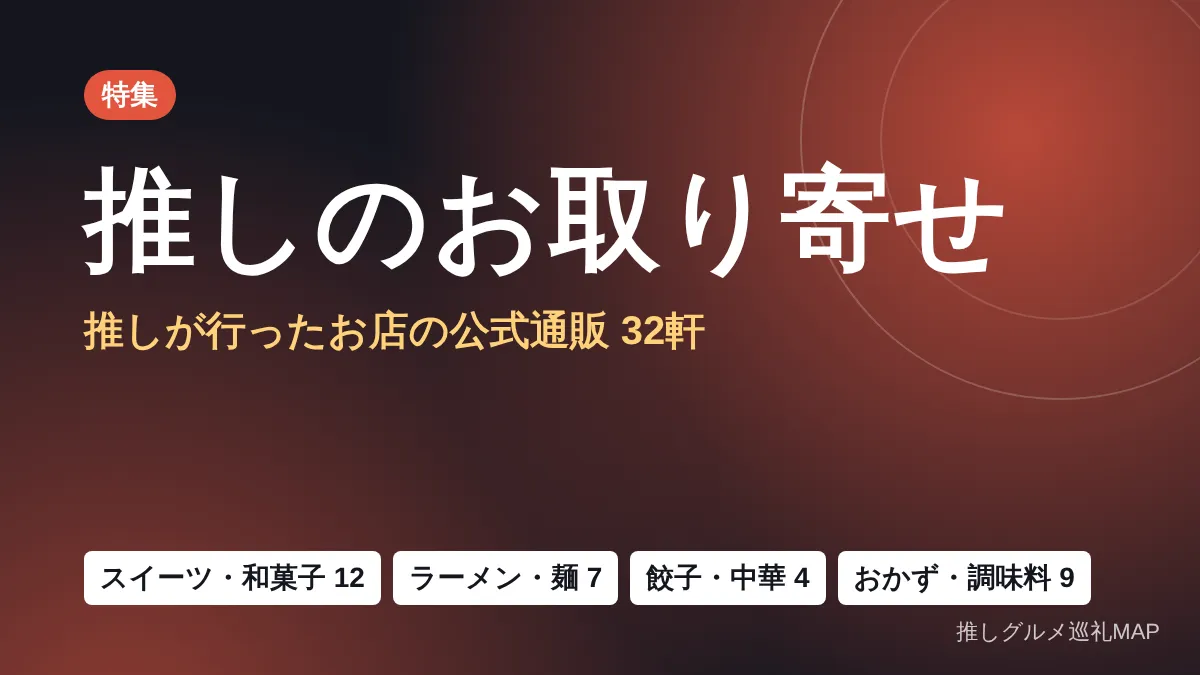
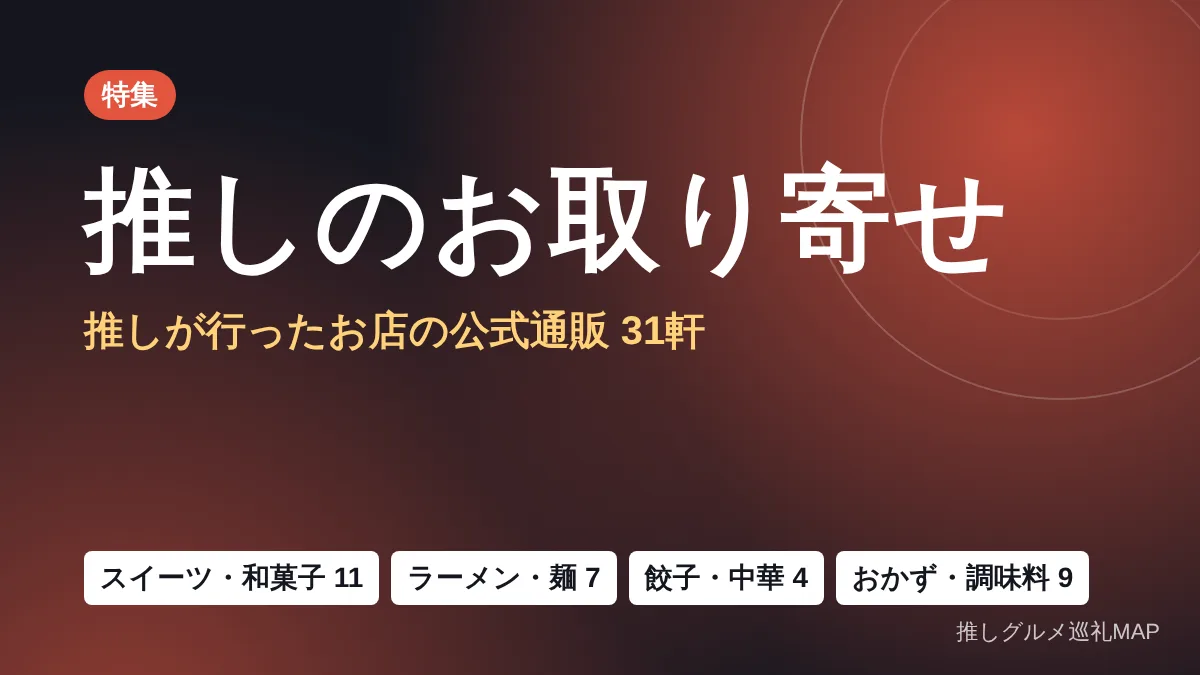
和食まとめ・お取り寄せまとめの軒数を、外した店に合わせて直す
Claude-Session: https://claude.ai/code/session_01MseDnBjkSwwRYQ7pFiJZVF

Changed region(s): [[0.2775, 0.8089, 0.8942, 0.9022], [0.5242, 0.4667, 0.555, 0.5289]]

diff --git a/_posts/2026-05-27-idol-washoku-matome.md b/_posts/2026-05-27-idol-washoku-matome.md
@@ -1,19 +1,19 @@
 ---
 layout: post
-title: "アイドル・芸能人が行った和食まとめ【86軒】よにのの朝定食・両国のちゃんこに2組・うなぎとそばまで11組"
+title: "アイドル・芸能人が行った和食まとめ【85軒】よにのの朝定食・両国のちゃんこに2組・うなぎとそばまで11組"
 date: 2026-05-27
 last_modified_at: 2026-10-10
-description: "孤独のグルメ・よにのちゃんねる・SixTONES・Snow Man・=LOVE・Hey! Say! JUMPなど11組の動画や番組に登場した和食・定食・そば・うなぎのお店86軒を、グループごとに動画の回・タイトル・注文したものと一緒にまとめました。何組も訪れたお店や、どのグループのお店かは図でひと目で。"
+description: "孤独のグルメ・よにのちゃんねる・SixTONES・Snow Man・=LOVE・Hey! Say! JUMPなど11組の動画や番組に登場した和食・定食・そば・うなぎのお店85軒を、グループごとに動画の回・タイトル・注文したものと一緒にまとめました。何組も訪れたお店や、どのグループのお店かは図でひと目で。"
 genre: 和食
 article_type: genre
 prefecture: 東京都
 tags: [和食, 定食, そば, うなぎ, ちゃんこ, おにぎり, 聖地巡礼, 孤独のグルメ, よにのちゃんねる, SixTONES, Snow Man, "=LOVE", "Hey! Say! JUMP", 乃木坂46, 推し活]
 thumbnail_video_id: Ax1f_OVispA
 summary:
-  - "11組のグループ・番組に登場した和食のお店86軒。孤独のグルメ29軒、よにのちゃんねる18軒、Snow Man11軒、=LOVE11軒"
+  - "11組のグループ・番組に登場した和食のお店85軒。孤独のグルメ29軒、よにのちゃんねる18軒、Snow Man11軒、=LOVE11軒"
   - "両国のちゃんこには、よにのちゃんねると孤独のグルメの2組"
   - "うなぎは4組、そば・うどんは5組のお店が登場。よにのちゃんねるは朝ごはんの定食の回が多い"
-  - "86軒のうち51軒が東京都。鎌倉・金沢・京都・軽井沢など旅先の和食も"
+  - "85軒のうち51軒が東京都。鎌倉・金沢・京都・軽井沢など旅先の和食も"
 shop_ids:
   - kodoku_no_gurume-f7531f88-
   - kodoku_no_gurume-83ea2596-
@@ -102,7 +102,7 @@ shop_ids:
   - heysayjump-aad59291-20160414
 faq:
   - q: "アイドル・芸能人が行った和食のお店は、どのグループが多いですか？"
-    a: "この記事の86軒では、孤独のグルメが29軒で最も多く、よにのちゃんねるが18軒、Snow Manと=LOVEが11軒ずつ、SixTONESが6軒、Hey! Say! JUMPが5軒です。"
+    a: "この記事の85軒では、孤独のグルメが29軒で最も多く、よにのちゃんねるが18軒、Snow Manと=LOVEが11軒ずつ、SixTONESとHey! Say! JUMPが5軒ずつです。"
   - q: "何組も訪れた和食のお店はありますか？"
     a: "両国では、よにのちゃんねるが相撲茶屋 寺尾（#336）、孤独のグルメがSeason2 第8話で割烹ちゃんこ 大内と、2組がちゃんこのお店に行っています。"
   - q: "よにのちゃんねるが行った和食のお店は？"
@@ -110,46 +110,46 @@ faq:
   - q: "推しが行ったうなぎのお店は？"
     a: "よにのちゃんねるの炭焼 うな富士 有楽町店（#452）、Snow Manのうなぎ川松（東久留米）、Hey! Say! JUMPのうな達（池袋）、孤独のグルメの鰻の名店割烹 松の家（浜松）の4軒です。"
   - q: "推しが行った和食のお店を地図で見られますか？"
-    a: "「お店を探す」でジャンルを和食にすると、この記事の86軒を含め、推しグルメ巡礼MAPに登録されている和食のお店を地図で見られます。"
+    a: "「お店を探す」でジャンルを和食にすると、この記事の85軒を含め、推しグルメ巡礼MAPに登録されている和食のお店を地図で見られます。"
 ---
 
 <div class="pf" style="--pc:#15803d">
 
 <p>朝の焼き魚定食、両国のちゃんこ、創業の古いおそば屋さん。和食の回には、推しがほっとひと息つく表情がよく映ります。</p>
 
-<p>この記事では、<strong>11組</strong>のグループ・番組の動画や放送に登場した和食・定食・そば・うなぎのお店<strong>86軒</strong>を、グループごとに動画の回とタイトル、注文したものと一緒にまとめました。</p>
+<p>この記事では、<strong>11組</strong>のグループ・番組の動画や放送に登場した和食・定食・そば・うなぎのお店<strong>85軒</strong>を、グループごとに動画の回とタイトル、注文したものと一緒にまとめました。</p>
 
 <h2>ひと目でわかる 推しの和食</h2>
 <div class="pf-card">
   <div class="pf-card__head">
     <small>アイドル・芸能人が行ったお店</small>
     <p class="pf-card__name">推しの和食</p>
-    <p class="pf-card__yomi">11組の動画・番組から86軒</p>
+    <p class="pf-card__yomi">11組の動画・番組から85軒</p>
     <span class="pf-card__color"><i></i>和食</span>
   </div>
   <dl class="pf-card__facts">
-    <div><dt>お店の数</dt><dd>86軒</dd></div>
+    <div><dt>お店の数</dt><dd>85軒</dd></div>
     <div><dt>グループ・番組</dt><dd>11組</dd></div>
     <div><dt>多いグループ</dt><dd>孤独のグルメ（29軒）・よにの（18軒）</dd></div>
     <div><dt>2組が行った街</dt><dd>両国（ちゃんこ）</dd></div>
     <div><dt>うなぎ</dt><dd>4組・4軒</dd></div>
-    <div><dt>東京の外</dt><dd>35軒（鎌倉・金沢・京都など）</dd></div>
+    <div><dt>東京の外</dt><dd>34軒（鎌倉・金沢・京都など）</dd></div>
   </dl>
 </div>
 
 <div class="pf-nums">
-  <div><b>86<small>軒</small></b><span>この記事の和食のお店</span></div>
+  <div><b>85<small>軒</small></b><span>この記事の和食のお店</span></div>
   <div><b>11<small>組</small></b><span>登場したグループ・番組</span></div>
   <div><b>10<small>本</small></b><span>よにのちゃんねるの18本のうち、タイトルに【朝食】【朝飯】が付いた回</span></div>
   <div><b>{{ site.data.site_stats.genres.washoku }}<small>軒</small></b><span>このサイトに登録されている和食のお店ぜんぶ</span></div>
 </div>
 
 <h2>どのグループの和食？</h2>
-<p>孤独のグルメの29軒に、よにのちゃんねる18軒、Snow Man・=LOVE11軒ずつ、SixTONES6軒が続きます。</p>
-<figure class="fig"><img src="/assets/img/posts/idol-washoku-matome/groups.svg" alt="どのグループの和食か：孤独のグルメ29軒、よにのちゃんねる18軒、Snow Man 11軒、=LOVE 11軒、SixTONES 6軒、Hey! Say! JUMP 5軒、乃木坂46 2軒、亀梨和也・≒JOY・≠ME・銀河チャンネルが1軒ずつ" width="420" height="530" loading="lazy" decoding="async"><figcaption>この記事の86軒を、推しグルメ巡礼MAPのデータで数えました</figcaption></figure>
+<p>孤独のグルメの29軒に、よにのちゃんねる18軒、Snow Man・=LOVE11軒ずつ、SixTONES・Hey! Say! JUMP5軒ずつが続きます。</p>
+<figure class="fig"><img src="/assets/img/posts/idol-washoku-matome/groups.svg" alt="どのグループの和食か：孤独のグルメ29軒、よにのちゃんねる18軒、Snow Man 11軒、=LOVE 11軒、SixTONES 5軒、Hey! Say! JUMP 5軒、乃木坂46 2軒、亀梨和也・≒JOY・≠ME・銀河チャンネルが1軒ずつ" width="420" height="530" loading="lazy" decoding="async"><figcaption>この記事の85軒を、推しグルメ巡礼MAPのデータで数えました</figcaption></figure>
 
 <h2>お店はどこにある？</h2>
-<figure class="fig"><img src="/assets/img/posts/idol-washoku-matome/area.svg" alt="お店の場所：東京51軒、関東（東京以外）14軒、中部9軒、近畿4軒、九州・沖縄4軒、北海道・東北2軒、中国・四国1軒、海外1軒。東京都のなかでは港区6軒、豊島区5軒、台東区・新宿区・渋谷区が4軒ずつ、千代田区・世田谷区・中央区が3軒ずつなど。東京都のほかでは神奈川県8軒、千葉県4軒、京都府3軒、石川県3軒など" width="420" height="726" loading="lazy" decoding="async"><figcaption>住所は推しグルメ巡礼MAPのデータより</figcaption></figure>
+<figure class="fig"><img src="/assets/img/posts/idol-washoku-matome/area.svg" alt="お店の場所：東京51軒、関東（東京以外）13軒、中部9軒、近畿4軒、九州・沖縄4軒、北海道・東北2軒、中国・四国1軒、海外1軒。東京都のなかでは港区6軒、豊島区5軒、台東区・新宿区・渋谷区が4軒ずつ、千代田区・世田谷区・中央区が3軒ずつなど。東京都のほかでは神奈川県7軒、千葉県4軒、京都府3軒、石川県3軒など" width="420" height="726" loading="lazy" decoding="async"><figcaption>住所は推しグルメ巡礼MAPのデータより</figcaption></figure>
 
 <h2>何組も訪れた：両国のちゃんこ</h2>
 <p>両国では2組がそれぞれ別のちゃんこのお店へ。</p>
@@ -222,7 +222,6 @@ faq:
   <li><span class="k">2019<br>5月</span><div><b>豚みそ丼本舗 野さか（秩父）</b><span>SixTONES【1年ぶりの復活】第3回！ドライブ企画ー秩父編ー1/5</span></div></li>
   <li><span class="k">2019<br>11月</span><div><b>京料理 六盛（京都）</b><span>SixTONES - Kyoto Drive Vol.2</span></div></li>
   <li><span class="k">2025<br>4月</span><div><b>江の島 貝作</b><span>SixTONES【お告げに従い…開運の旅2025~最終話】江の島の海鮮を食べ尽くす!?</span></div></li>
-  <li><span class="k">2025<br>9月</span><div><b>鎌倉 無（むしゃ）</b><span>SixTONES【サマソニ直後に夏ドライブ】色々語りたいタイミングなんだよね!?</span></div></li>
 </ul>
 {% include inline-shop-grid.html ids="snowman-kokonotsu-kitasenju,snowman-kitchen-nanagoku-waseda,snowman-onigiri-asakusa-yadoroku,snowman-iseyashokudo-yodobashi,snowman-wagaya-shokudo-kasai,snowman-donabe-gohan-ikushika,snowman-yakuzenya-ebisu,snowman-ab957c1f-20250414,sixtones-f52d4936-202108,sixtones-b5dfc98a-202310,sixtones-enoshima-kaisaku" %}
 
@@ -297,12 +296,12 @@ faq:
   <li><strong>麻布十番</strong>：しゃぶしゃぶ だるま（麻布十番駅 徒歩2分）・干物割烹 あん梅（よにのちゃんねる）と、Snow Manの総本家更科堀井 本店（麻布十番駅 徒歩7分）。</li>
   <li><strong>大塚・池袋</strong>：乃木坂46のおにぎり ぼんご 大塚本店（巣鴨新田駅 徒歩3分）、ねぎし 池袋サンシャイン前店、うな達（向原駅 徒歩6分）。</li>
   <li><strong>中目黒・恵比寿</strong>：Snow Manの土鍋ご飯いくしか（中目黒駅 徒歩5分）・やくぜんや（恵比寿駅 徒歩2分）、よにのちゃんねるのなかよし（恵比寿駅 徒歩5分）。</li>
-  <li><strong>鎌倉</strong>：=LOVEの八倉（鎌倉駅 徒歩6分）・鎌倉壱番屋・ともや、乃木坂46の段葛 こ寿々（鎌倉駅 徒歩2分）、SixTONESの鎌倉 無（鎌倉駅 徒歩5分）。</li>
+  <li><strong>鎌倉</strong>：=LOVEの八倉（鎌倉駅 徒歩6分）・鎌倉壱番屋・ともや、乃木坂46の段葛 こ寿々（鎌倉駅 徒歩2分）。</li>
 </ul>
 
 <div class="pf-cta">
   <p>推しが行った和食のお店を、地図でぜんぶ見る</p>
-  <span>この記事の86軒のほかにも、グループや番組に登場した和食のお店を地図で探せます。行きたいお店は保存して、巡礼の計画に。</span>
+  <span>この記事の85軒のほかにも、グループや番組に登場した和食のお店を地図で探せます。行きたいお店は保存して、巡礼の計画に。</span>
   <a class="btn" href="/shops/?genre=washoku&amp;view=map">地図で和食のお店を見る</a>
 </div>
 <p>ほかのジャンルのまとめ：<a href="/articles/2026/05/26/idol-cafe-matome/">カフェ</a>・<a href="/articles/2026/05/27/idol-sweets-matome/">スイーツ</a>・<a href="/articles/2026/05/27/idol-ramen-matome/">ラーメン</a>・<a href="/articles/2026/05/27/idol-yakiniku-matome/">焼肉</a>・<a href="/articles/2026/05/27/idol-izakaya-matome/">居酒屋</a>。グループごとのお店は<a href="{{ site.data.group_ix.kodoku_no_gurume.u }}">孤独のグルメ</a>・<a href="{{ site.data.group_ix.yonino.u }}">よにのちゃんねる</a>・<a href="{{ site.data.group_ix.sixtones.u }}">SixTONES</a>・<a href="{{ site.data.group_ix.snowman.u }}">Snow Man</a>のページからも探せます。</p>

diff --git a/_posts/2026-10-12-oshi-otoriyose-matome.md b/_posts/2026-10-12-oshi-otoriyose-matome.md
@@ -1,9 +1,9 @@
 ---
 layout: post
-title: "推しが食べたお店のお取り寄せまとめ｜よにの・乃木坂46・Snow Manほかが行った店の公式通販32軒"
+title: "推しが食べたお店のお取り寄せまとめ｜よにの・乃木坂46・Snow Manほかが行った店の公式通販31軒"
 date: 2026-10-12
 last_modified_at: 2026-10-12
-description: "よにのちゃんねる・乃木坂46・Snow Man・=LOVE・King & Princeなど15組の推しが動画や番組で訪れたお店のうち、公式のオンラインショップでお取り寄せできる32軒をまとめました。どの回で行ったかと、公式通販で買えるもの（スイーツ・ラーメン・餃子・牛たん・味噌など）をジャンル別に紹介します。"
+description: "よにのちゃんねる・乃木坂46・Snow Man・=LOVE・King & Princeなど14組の推しが動画や番組で訪れたお店のうち、公式のオンラインショップでお取り寄せできる31軒をまとめました。どの回で行ったかと、公式通販で買えるもの（スイーツ・ラーメン・餃子・牛たん・味噌など）をジャンル別に紹介します。"
 genre: まとめ
 article_type: matome
 prefecture:
@@ -13,8 +13,8 @@ checked_label: 通販の情報
 tags: [お取り寄せ, 通販, 公式オンラインショップ, 聖地巡礼, 推し活, よにのちゃんねる, 乃木坂46, Snow Man, "=LOVE", "King & Prince", 嵐, SixTONES]
 thumbnail: /assets/img/posts/oshi-otoriyose-matome/thumb.webp
 summary:
-  - "推しが動画や番組で訪れたお店のうち、公式のオンラインショップがある32軒（15組）"
-  - "スイーツ・和菓子・コーヒー12軒、ラーメン・そば・うどん7軒、餃子・中華4軒、肉・うなぎ・おかず・調味料9軒"
+  - "推しが動画や番組で訪れたお店のうち、公式のオンラインショップがある31軒（14組）"
+  - "スイーツ・和菓子・コーヒー11軒、ラーメン・そば・うどん7軒、餃子・中華4軒、肉・うなぎ・おかず・調味料9軒"
   - "お店ごとに「推しが行った回」と「通販で買えるもの」を、2026年10月12日に各店の公式サイトで確かめて載せています"
   - "チェーン店や支店は、そのお店ではなくブランドの公式通販です。価格や送料は公式通販で確かめてください"
 shop_ids:
@@ -70,8 +70,6 @@ sources:
     url: "https://www.obusedo.com/"
   - label: "芋屋金次郎 高知本店（公式サイト）"
     url: "https://www.imokin.co.jp/"
-  - label: "Mr. CHEESECAKE GINZA SIX店（公式サイト）"
-    url: "https://mr-cheesecake.com/"
   - label: "丸山珈琲 ハルニレテラス店（公式サイト）"
     url: "https://www.maruyamacoffee.com/"
   - label: "一蘭 中野店（公式サイト）"
@@ -116,7 +114,7 @@ sources:
     url: "https://www.houraiken.com/houraiken_chimaki.html"
 faq:
   - q: "推しが行ったお店の商品を通販で買えますか？"
-    a: "この記事の32軒は、2026年10月12日に各お店（またはブランド）の公式サイトで、公式のオンラインショップやお取り寄せのページがあることを確かめたお店です。買えるものはお店ごとに載せています。"
+    a: "この記事の31軒は、2026年10月12日に各お店（またはブランド）の公式サイトで、公式のオンラインショップやお取り寄せのページがあることを確かめたお店です。買えるものはお店ごとに載せています。"
   - q: "支店やチェーン店に行った回でも、同じ商品が買えますか？"
     a: "通販はお店（支店）ごとではなく、ブランドの公式通販です。たとえば一蘭 中野店・天下一品 中野店・ラーメン山岡家 青梅店などは、それぞれのブランドの公式通販を案内しています。お店で食べたメニューと通販の商品は同じとは限りません。"
   - q: "価格や送料はいくらですか？"
@@ -131,7 +129,7 @@ faq:
 
 <p>推しが動画や番組で訪れた、あのお店。遠くてなかなか行けないお店でも、公式のオンラインショップがあれば、家でお取り寄せできます。</p>
 
-<p>この記事では、推しグルメ巡礼MAPに登録しているお店のうち、<strong>公式の通販があるお店32軒</strong>をジャンル別にまとめました。お店ごとに、<strong>どの推しがどの回で行ったか</strong>（推しグルメ巡礼MAPのデータより）と、<strong>公式通販で買えるもの</strong>（2026年10月12日に各お店の公式サイトで確かめたもの）を載せています。</p>
+<p>この記事では、推しグルメ巡礼MAPに登録しているお店のうち、<strong>公式の通販があるお店31軒</strong>をジャンル別にまとめました。お店ごとに、<strong>どの推しがどの回で行ったか</strong>（推しグルメ巡礼MAPのデータより）と、<strong>公式通販で買えるもの</strong>（2026年10月12日に各お店の公式サイトで確かめたもの）を載せています。</p>
 
 <h2>ひと目でわかる 推しのお店のお取り寄せ</h2>
 <div class="pf-card">
@@ -139,12 +137,12 @@ faq:
     <small>推しが行ったお店の公式通販</small>
     <p class="pf-card__name">おうちで聖地グルメ</p>
     <p class="pf-card__yomi">2026年10月12日に公式サイトで確認</p>
-    <span class="pf-card__color"><i></i>15組の推し</span>
+    <span class="pf-card__color"><i></i>14組の推し</span>
   </div>
   <dl class="pf-card__facts">
-    <div><dt>お店の数</dt><dd>32軒</dd></div>
-    <div><dt>推しのグループ・番組</dt><dd>15組</dd></div>
-    <div><dt>いちばん多いジャンル</dt><dd>スイーツ・和菓子（12軒）</dd></div>
+    <div><dt>お店の数</dt><dd>31軒</dd></div>
+    <div><dt>推しのグループ・番組</dt><dd>14組</dd></div>
+    <div><dt>いちばん多いジャンル</dt><dd>スイーツ・和菓子（11軒）</dd></div>
     <div><dt>チェーン店</dt><dd>5軒（ブランドの通販）</dd></div>
     <div><dt>お店の場所</dt><dd>13都道府県</dd></div>
     <div><dt>楽天市場にも店</dt><dd>2軒</dd></div>
@@ -152,14 +150,14 @@ faq:
 </div>
 
 <div class="pf-nums">
-  <div><b>32<small>軒</small></b><span>公式の通販があるお店</span></div>
-  <div><b>15<small>組</small></b><span>よにのちゃんねる・乃木坂46・Snow Manなど</span></div>
-  <div><b>12<small>軒</small></b><span>スイーツ・和菓子・コーヒー</span></div>
-  <div><b>13<small>都道府県</small></b><span>東京都15軒・神奈川県3軒・京都府2軒など</span></div>
+  <div><b>31<small>軒</small></b><span>公式の通販があるお店</span></div>
+  <div><b>14<small>組</small></b><span>よにのちゃんねる・乃木坂46・Snow Manなど</span></div>
+  <div><b>11<small>軒</small></b><span>スイーツ・和菓子・コーヒー</span></div>
+  <div><b>13<small>都道府県</small></b><span>東京都14軒・神奈川県3軒・京都府2軒など</span></div>
 </div>
 
 <h2>ジャンルと場所</h2>
-<figure class="fig"><img src="/assets/img/posts/oshi-otoriyose-matome/genre.svg" alt="お店のジャンルと場所：スイーツ9軒、和食7軒、ラーメン5軒、中華5軒、その他3軒、食事2軒、カフェ1軒。場所は東京都15軒（台東区・中央区3軒ずつ、中野区2軒ほか）、東京の外は長野県・宇都宮市・横浜市が2軒ずつ、ほかに仙台市・福岡市・小樽市・京都市・福知山市・成田市・名古屋市・廿日市市・長崎市・高知市・川崎市" width="420" height="846" loading="lazy" decoding="async"><figcaption>この記事の32軒を数えました（ジャンルは推しグルメ巡礼MAPの分類。この記事の見出しの分け方とは少し違います）</figcaption></figure>
+<figure class="fig"><img src="/assets/img/posts/oshi-otoriyose-matome/genre.svg" alt="お店のジャンルと場所：スイーツ8軒、和食7軒、ラーメン5軒、中華5軒、その他3軒、食事2軒、カフェ1軒。場所は東京都14軒（台東区3軒、中央区・中野区2軒ずつほか）、東京の外は長野県・宇都宮市・横浜市が2軒ずつ、ほかに仙台市・福岡市・小樽市・京都市・福知山市・成田市・名古屋市・廿日市市・長崎市・高知市・川崎市" width="420" height="846" loading="lazy" decoding="async"><figcaption>この記事の31軒を数えました（ジャンルは推しグルメ巡礼MAPの分類。この記事の見出しの分け方とは少し違います）</figcaption></figure>
 
 <h2>注文する前に</h2>
 <ul>
@@ -170,7 +168,7 @@ faq:
 </ul>
 <p class="note">楽天市場へのリンクは広告（アフィリエイト）リンクです。公式オンラインショップへのリンクは広告ではありません。</p>
 
-<h2>スイーツ・和菓子・コーヒー（12軒）</h2>
+<h2>スイーツ・和菓子・コーヒー（11軒）</h2>
 <p>洋菓子・和菓子・ご当地のお菓子と、コーヒー豆。詰め合わせやギフトを用意しているお店もあります。</p>
 <ul class="pf-buy">
   <li style="--g:#f43f5e">
@@ -272,16 +270,6 @@ faq:
     </dl>
     <p class="pf-buy__note">高知本店は芋屋金次郎の店舗のひとつ。通販は芋屋金次郎の公式通販です。</p>
     <p class="pf-buy__btns"><a class="btn btn--sm" href="https://www.imokin.jp/" target="_blank" rel="noopener">公式オンラインショップ</a></p>
-  </li>
-  <li style="--g:#f97316">
-    <p class="pf-buy__who">なにわ男子</p>
-    <b>Mr. CHEESECAKE GINZA SIX店</b>
-    <dl>
-      <div><dt>推しが行った回</dt><dd>大橋和也が、めざましテレビのコーナー「なにわ男子のどっち派」（2025年4月11日）で訪問</dd></div>
-      <div><dt>通販で買えるもの</dt><dd>チーズケーキ</dd></div>
-    </dl>
-    <p class="pf-buy__note">GINZA SIX店はMr. CHEESECAKEの店舗のひとつ。公式サイトの「ONLINE STORE」で買えます。</p>
-    <p class="pf-buy__btns"><a class="btn btn--sm" href="https://mr-cheesecake.com/collections" target="_blank" rel="noopener">公式オンラインショップ</a></p>
   </li>
   <li style="--g:#e8537a">
     <p class="pf-buy__who">よにのちゃんねる</p>
@@ -518,7 +506,7 @@ faq:
 <p>お取り寄せで気になったら、次はお店へ。行く前に、各お店の公式情報で営業日を確かめてください。</p>
 <ul>
   <li><strong>浅草</strong>：浅草今半 国際通り本店・浅草むぎとろ本店・舟和 仲見世1号店。よにのちゃんねる・Snow Man・=LOVEのお店が同じ街にあります。</li>
-  <li><strong>銀座・麻布十番</strong>：フレデリック カッセル 銀座三越店（銀座駅 徒歩1分）・Mr. CHEESECAKE GINZA SIX店と、麻布十番の総本家更科堀井 本店。</li>
+  <li><strong>銀座・麻布十番</strong>：フレデリック カッセル 銀座三越店（銀座駅 徒歩1分）と、麻布十番の総本家更科堀井 本店。</li>
   <li><strong>横浜中華街</strong>：萬珍樓 本店（孤独のグルメ）と重慶飯店 新館（WEST.）。</li>
   <li><strong>宇都宮</strong>：来らっせ 本店（SixTONES）と宇都宮みんみん（乃木坂46）。</li>
   <li><strong>小布施・軽井沢</strong>：小布施堂本店（嵐）と丸山珈琲 ハルニレテラス店（よにのちゃんねる）。どちらも長野県です。</li>
